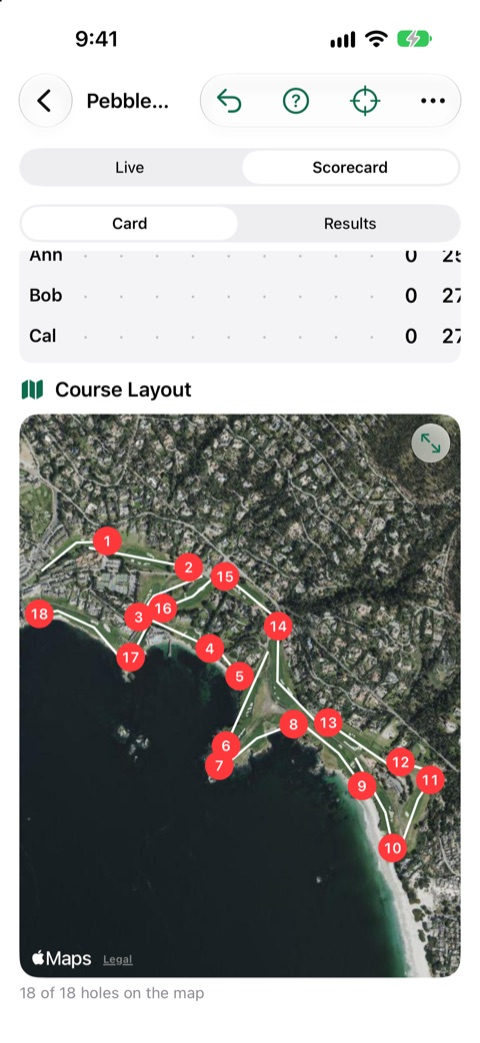
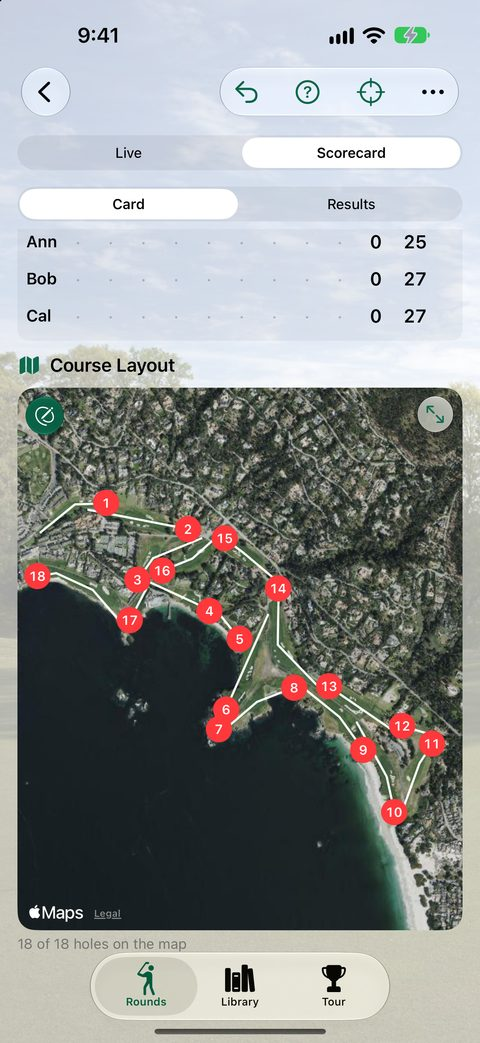
Move TallyUp Golf up beside Game Closet as coming soon, with new screenshots on its backgrounds and its own privacy and support pages

diff --git a/tallyup-golf/index.html b/tallyup-golf/index.html
@@ -12,14 +12,14 @@
 <meta name="viewport" content="width=device-width, initial-scale=1">
 <meta name="color-scheme" content="light dark">
 <title>TallyUp Golf: Score the Round and the Side Games</title>
-<meta name="description" content="A golf scorecard app in the works for iPhone, iPhone Duo and iPad: GPS yards to the green, every hole on the map, in 3D, drawn or from the side, scores for up to four players, side games like skins, Nassau and wolf, and who owes whom at the end.">
+<meta name="description" content="A golf scorecard app for iPhone, iPhone Duo and iPad, coming to the App Store: GPS yards to the green, every hole on the map, in 3D, drawn or from the side, scores for up to four players, side games like skins, Nassau and wolf, and who owes whom at the end.">
 <link rel="icon" href="../assets/favicon.png">
 <link rel="stylesheet" href="../assets/site.css">
 </head>
 <body>
 <header class="bar"><div class="wrap">
   <a class="brand" href="../index.html"><img src="../assets/logo.jpg" alt="" width="314" height="320">DeeDogDevelopment</a>
-  <nav aria-label="Pages"><ul><li><a href="../game-closet/index.html">Game Closet</a></li><li><a href="../game-closet/support.html">Support</a></li><li><a href="../game-closet/privacy.html">Privacy</a></li></ul></nav>
+  <nav aria-label="Pages"><ul><li><a href="../tallyup-golf/index.html" aria-current="page">TallyUp Golf</a></li><li><a href="../tallyup-golf/support.html">Support</a></li><li><a href="../tallyup-golf/privacy.html">Privacy</a></li></ul></nav>
 </div></header>
 <main id="content"><div class="wrap">
   <div class="app-head">
@@ -27,7 +27,7 @@
     <div class="text">
       <h1>TallyUp Golf</h1>
       <p class="lede">Score the round, settle the side games.</p>
-      <span class="soon">Coming soon, maybe</span>
+      <span class="soon">Coming to the App Store</span>
     </div>
   </div>
   <p>See the hole you're on, with the yards to the front, middle and back of the green from where you stand. Keep score hole by hole for up to four players, with strokes given for handicaps. Add skins, a Nassau or wolf, and at the end TallyUp Golf works out who owes whom in the fewest payments.</p>
@@ -35,17 +35,20 @@
     <li><img src="../assets/tallyup-golf/iphone-map.jpg" alt="Pebble Beach's 7th hole on the satellite map from its tee, with 119 yards to the back of the green, 108 to the middle and 96 to the front, above score buttons for four players" width="480" height="1043" loading="lazy"></li>
     <li><img src="../assets/tallyup-golf/iphone-3d.jpg" alt="The same hole in 3D, looking from the tee across the cliffs to the green on the point with the ocean behind it" width="480" height="1043" loading="lazy"></li>
     <li><img src="../assets/tallyup-golf/iphone-drawing.jpg" alt="The same hole drawn like a yardage book: the tee, the line to the green, and the bunkers around it" width="480" height="1043" loading="lazy"></li>
-    <li><img src="../assets/tallyup-golf/iphone-side.jpg" alt="The same hole from the side: the ground falling 29 feet from the tee to the green, so it plays like 84 yards" width="480" height="1043" loading="lazy"></li>
-    <li><img src="../assets/tallyup-golf/iphone-scorecard.jpg" alt="The scorecard for four players through six holes at Pebble Beach, with birdies circled and bogeys boxed" width="480" height="1043" loading="lazy"></li>
+    <li><img src="../assets/tallyup-golf/iphone-side.jpg" alt="The same hole from the side: the ground falling 29 feet from the tee to the green, so with a light tailwind it plays like 82 yards" width="480" height="1043" loading="lazy"></li>
+    <li><img src="../assets/tallyup-golf/iphone-scorecard.jpg" alt="The scorecard for four players through six holes at Pebble Beach, with birdies circled and bogeys boxed, over a photo of a flag on a green" width="480" height="1043" loading="lazy"></li>
     <li><img src="../assets/tallyup-golf/iphone-course.jpg" alt="Under the scorecard, all 18 holes of Pebble Beach on the satellite map, each numbered at its green" width="480" height="1043" loading="lazy"></li>
-    <li><img src="../assets/tallyup-golf/iphone-results.jpg" alt="Side game results: skins won by each player, the Nassau bets and presses, and three payments to settle up" width="480" height="1043" loading="lazy"></li>
+    <li><img src="../assets/tallyup-golf/iphone-results.jpg" alt="Side game results: skins won, the Nassau bets and a press, and three payments to settle up" width="480" height="1043" loading="lazy"></li>
+    <li><img src="../assets/tallyup-golf/iphone-rounds.jpg" alt="The Rounds list over a photo of a bunker in front of tall pines" width="480" height="1043" loading="lazy"></li>
   </ul>
 
   <h2>Open it up</h2>
-  <p>On iPhone Duo, open the phone and the round spreads across both halves: the scorecard and the whole course on one, the hole and the score buttons on the other.</p>
-  <ul class="shots mixed" tabindex="0" aria-label="Screenshots on iPhone Duo, open">
+  <p>On iPhone Duo, open the phone and the round spreads across both halves: the scorecard and the whole course on one, the hole and the score buttons on the other. Closed, it's all there on the cover display.</p>
+  <ul class="shots mixed" tabindex="0" aria-label="Screenshots on iPhone Duo">
     <li><img src="../assets/tallyup-golf/duo-open.jpg" alt="iPhone Duo open: the Pebble Beach scorecard on one half, and the 7th hole in 3D with the yards to the green and score buttons for four players on the other" width="1000" height="703" loading="lazy"></li>
-    <li><img src="../assets/tallyup-golf/duo-course.jpg" alt="iPhone Duo open: all 18 holes of Pebble Beach on the map on one half, and the 7th hole in 3D on the other" width="1000" height="703" loading="lazy"></li>
+    <li><img src="../assets/tallyup-golf/duo-side.jpg" alt="iPhone Duo open: the scorecard on one half, and the 7th hole from the side, falling 29 feet to the green, on the other" width="1000" height="703" loading="lazy"></li>
+    <li><img src="../assets/tallyup-golf/duo-course.jpg" alt="iPhone Duo open: all 18 holes of Pebble Beach on the map on one half, and the 7th hole on the satellite map on the other" width="1000" height="703" loading="lazy"></li>
+    <li><img src="../assets/tallyup-golf/duo-cover.jpg" alt="iPhone Duo closed: the 7th hole on the satellite map with the yards to the green, and score buttons for four players, on the cover display" width="480" height="698" loading="lazy"></li>
   </ul>
 
   <h2>What it does</h2>
@@ -57,10 +60,10 @@
     <div><h3>Settle up</h3><p>Every side game adds up to the fewest payments between players, in points. It keeps the tally; it doesn't move money.</p></div>
     <div><h3>Find the course</h3><p>Search an open course directory for pars, stroke index, yardage and tees, or type the card in. Courses you've played work with no signal.</p></div>
   </div>
-  <p style="margin-top:2rem">TallyUp Golf isn't out yet, and plans can change. Back to <a href="../index.html">DeeDogDevelopment</a>.</p>
+  <p style="margin-top:2rem">Questions? See <a href="support.html">TallyUp Golf Support</a> and the <a href="privacy.html">privacy policy</a>. Back to <a href="../index.html">DeeDogDevelopment</a>.</p>
 </div></main>
 <footer><div class="wrap">
-  <ul><li><a href="../game-closet/index.html">Game Closet</a></li><li><a href="../game-closet/support.html">Support</a></li><li><a href="../game-closet/privacy.html">Privacy Policy</a></li><li><a href="mailto:natured-lobular8t@icloud.com">Contact</a></li></ul>
+  <ul><li><a href="../tallyup-golf/index.html">TallyUp Golf</a></li><li><a href="../tallyup-golf/support.html">Support</a></li><li><a href="../tallyup-golf/privacy.html">Privacy Policy</a></li><li><a href="mailto:natured-lobular8t@icloud.com">Contact</a></li></ul>
   <p>© 2026 Jim Murff, DeeDogDevelopment.</p>
 </div></footer>
 </body>

diff --git a/tallyup-golf/privacy.html b/tallyup-golf/privacy.html
@@ -1,0 +1,91 @@
+<!doctype html>
+<!--
+  privacy.html
+  Docs, TallyUpGolf
+
+  Created by Jim Murff on 11/04/26.
+  Copyright © 2026 Jim Murff, DeeDogDevelopment. All rights reserved.
+-->
+<html lang="en">
+<head>
+<meta charset="utf-8">
+<meta name="viewport" content="width=device-width, initial-scale=1">
+<meta name="color-scheme" content="light dark">
+<title>TallyUp Golf Privacy Policy</title>
+<meta name="description" content="What TallyUp Golf keeps on your device, what it asks outside services for, and what it never collects.">
+<link rel="icon" href="../assets/favicon.png">
+<link rel="stylesheet" href="../assets/site.css">
+</head>
+<body>
+<header class="bar"><div class="wrap">
+  <a class="brand" href="../index.html"><img src="../assets/logo.jpg" alt="" width="314" height="320">DeeDogDevelopment</a>
+  <nav aria-label="Pages"><ul><li><a href="../tallyup-golf/index.html">TallyUp Golf</a></li><li><a href="../tallyup-golf/support.html">Support</a></li><li><a href="../tallyup-golf/privacy.html" aria-current="page">Privacy</a></li></ul></nav>
+</div></header>
+<main id="content" class="prose">
+  <h1>TallyUp Golf Privacy Policy</h1>
+  <p class="meta">Effective November 4, 2026</p>
+
+  <div class="card">
+    <p><strong>In short:</strong> TallyUp Golf does not collect your data. There is no account, no advertising, no analytics and no tracking, and the app talks to no server run by its developer. Your rounds are kept on your device and, if you leave sync on, in your own iCloud. Your location stays on your device. To draw a course, the app asks public map, elevation and weather services about that course, never about you.</p>
+  </div>
+
+  <h2>Who this covers</h2>
+  <p>This policy covers the TallyUp Golf app for iPhone and iPad. It is published by Jim Murff, who also trades informally as DeeDogDevelopment ("we" in this policy). Contact details are at the end.</p>
+
+  <h2>What we collect</h2>
+  <p>Nothing. We run no servers for the app and receive no personal information from it. The app has no sign-up and no login, shows no ads, and contains no analytics or advertising code and no tracking.</p>
+
+  <h2>What stays on your device</h2>
+  <p>The app saves the following on your device, so your rounds and courses are there next time:</p>
+  <ul>
+    <li>Your rounds: the course, the players' names and handicap strokes, every score, and the side games and their results.</li>
+    <li>The courses in your Library, with their maps, locations and elevation, so they work with no signal.</li>
+    <li>Your settings, such as distances in yards or meters, the theme, the background photo and how holes open.</li>
+  </ul>
+  <p>Deleting the app removes all of this from the device. Settings can delete downloaded maps, and a round can be deleted from the Rounds list.</p>
+
+  <h2>Your location</h2>
+  <p>If you allow it, the app uses your location while it's open to show where you are on the hole, measure the yards to the green or to where you aim, and find courses near you. Your location is used on the device and is never sent to us or to any other service. The app works without it: yards are then measured from the tee, and course search shows courses anywhere. You can change this at any time in your device's Settings, under Privacy &amp; Security, Location Services.</p>
+
+  <h2>iCloud sync and backups (optional, Apple)</h2>
+  <p>With "Sync Rounds With iCloud" on, the app keeps your rounds in your private iCloud database, so they follow you to your other devices signed in to the same Apple Account. This is on by default and only works if you are signed in to iCloud. Back Up Now saves your rounds as a file in your iCloud Drive, or on the device when iCloud Drive is off. Apple stores and protects this data under your Apple Account and <a href="https://www.apple.com/legal/privacy/">Apple's privacy policy</a>. We cannot see it.</p>
+  <ul>
+    <li>To stop syncing, open Settings in the app and switch off "Sync Rounds With iCloud". Rounds already in iCloud stay there until you remove them in your device's iCloud storage settings.</li>
+    <li>A round you send to someone else from its menu is a file you share yourself, through the share sheet you pick.</li>
+  </ul>
+
+  <h2>Outside services the app asks</h2>
+  <p>To find and draw courses, the app sends requests to these services. Each request is about a course or a place on a course: a course name you search for, or a course's coordinates. None of them includes your location, your name, your scores or anything that identifies you, and none of them is run by us.</p>
+  <ul>
+    <li><strong>OpenGolfAPI</strong>, an open course directory: the course name you search for, to get pars, stroke index, yardage and tees.</li>
+    <li><strong>OpenStreetMap</strong> (through the Overpass API): a course's coordinates, to get the shapes of its holes, greens and bunkers.</li>
+    <li><strong>The US Geological Survey</strong> elevation service: points along a hole, to get the ground's height for the side view.</li>
+    <li><strong>Apple Weather</strong> (WeatherKit) and <strong>Apple Maps</strong>: a course's location, for the wind and temperature in the plays-like yardage, and to find a course the directory doesn't list. Apple handles these under <a href="https://www.apple.com/legal/privacy/">Apple's privacy policy</a>.</li>
+    <li><strong>ESPN</strong> and <strong>TheSportsDB</strong>: the Tour tab asks for tournament schedules and leaderboards. It sends nothing about you.</li>
+  </ul>
+  <p>Like any website, these services see the network address your request comes from. Their own privacy policies apply to what they do with it.</p>
+
+  <h2>Money</h2>
+  <p>TallyUp Golf keeps a tally of side games in points. It does not move money, and it has no in-app purchases.</p>
+
+  <h2>Diagnostics from Apple</h2>
+  <p>If you have chosen to share analytics with app developers in your device's privacy settings, Apple may pass us crash reports and usage statistics about TallyUp Golf. They come from Apple, are not part of the app, and are not linked to your identity by us.</p>
+
+  <h2>Children</h2>
+  <p>TallyUp Golf does not collect personal information from anyone, including children. It has no ads and no chat or other way to contact other people.</p>
+
+  <h2>Sharing your information</h2>
+  <p>We do not sell, rent or share personal information, because we do not have any.</p>
+
+  <h2>Changes to this policy</h2>
+  <p>If the app changes in a way that affects your privacy, we will update this page and the effective date at the top, and the App Store listing will show a matching privacy label.</p>
+
+  <h2>Contact</h2>
+  <p>Questions about privacy: <a href="mailto:natured-lobular8t@icloud.com">natured-lobular8t@icloud.com</a>.</p>
+</main>
+<footer><div class="wrap">
+  <ul><li><a href="../tallyup-golf/index.html">TallyUp Golf</a></li><li><a href="../tallyup-golf/support.html">Support</a></li><li><a href="../tallyup-golf/privacy.html">Privacy Policy</a></li><li><a href="mailto:natured-lobular8t@icloud.com">Contact</a></li></ul>
+  <p>© 2026 Jim Murff, DeeDogDevelopment.</p>
+</div></footer>
+</body>
+</html>

diff --git a/tallyup-golf/support.html b/tallyup-golf/support.html
@@ -1,0 +1,72 @@
+<!doctype html>
+<!--
+  support.html
+  Docs, TallyUpGolf
+
+  Created by Jim Murff on 11/04/26.
+  Copyright © 2026 Jim Murff, DeeDogDevelopment. All rights reserved.
+-->
+<html lang="en">
+<head>
+<meta charset="utf-8">
+<meta name="viewport" content="width=device-width, initial-scale=1">
+<meta name="color-scheme" content="light dark">
+<title>TallyUp Golf Support</title>
+<meta name="description" content="Help with TallyUp Golf: finding courses, yards to the green, side games, iCloud sync, backups and iPhone Duo.">
+<link rel="icon" href="../assets/favicon.png">
+<link rel="stylesheet" href="../assets/site.css">
+</head>
+<body>
+<header class="bar"><div class="wrap">
+  <a class="brand" href="../index.html"><img src="../assets/logo.jpg" alt="" width="314" height="320">DeeDogDevelopment</a>
+  <nav aria-label="Pages"><ul><li><a href="../tallyup-golf/index.html">TallyUp Golf</a></li><li><a href="../tallyup-golf/support.html" aria-current="page">Support</a></li><li><a href="../tallyup-golf/privacy.html">Privacy</a></li></ul></nav>
+</div></header>
+<main id="content" class="prose">
+  <h1>TallyUp Golf Support</h1>
+  <p>Most answers are also in the app: tap the question mark on the Rounds screen or during a round. If something here doesn't help, write to <a href="mailto:natured-lobular8t@icloud.com">natured-lobular8t@icloud.com</a> with your device, its iOS version and what happened.</p>
+
+  <h2>Start a round</h2>
+  <ol>
+    <li>On Rounds, tap the plus button.</li>
+    <li>Search for the course by name, or type the card in yourself. Courses you've played are in the Library and work with no signal.</li>
+    <li>Add up to four players, with the strokes each one gets.</li>
+    <li>Pick any side games. The help button beside them explains each one.</li>
+  </ol>
+  <p>A blank score starts at par, so most holes take one tap per player. Plus and minus cover the rest, and Undo takes back the last change.</p>
+
+  <h2>Yards to the green</h2>
+  <p>With location allowed, the yards to the back, middle and front of the green are measured from where you stand once you're near the hole. Without location, or away from the course, they're measured from the tee. Tap the map to aim at a spot and see the yards to it and on to the pin.</p>
+  <p>If yards look wrong, check that Location Services is on for TallyUp Golf in your device's Settings, under Privacy &amp; Security. Settings in the app shows whether the app can use your location and has a button to open the right page.</p>
+
+  <h2>A course has no map, or the map is wrong</h2>
+  <p>Hole shapes come from OpenStreetMap, which volunteers draw. Some courses aren't drawn yet, or are drawn only in part. Those holes show a sketch from the par and yardage instead, and scoring works the same. Tap Mark This Hole on the sketch to mark its tee and green yourself. In the Library, the refresh button fetches a course's map again, which picks up changes made on OpenStreetMap.</p>
+
+  <h2>The side view</h2>
+  <p>The side view shows how much a hole climbs or drops, from US Geological Survey heights, and what that, the wind, the temperature and the altitude do to the yardage. It covers courses in the United States. Elsewhere it says there's no elevation data and the other views still work.</p>
+
+  <h2>Side games and settling up</h2>
+  <p>TallyUp Golf plays stroke play, Stableford, match play, skins, Nassau with presses, and wolf, gross or net. Which games show depends on how many players and holes there are. Results shows each game's standing and the fewest payments that settle everything, in points. The app keeps the tally; it doesn't move money.</p>
+
+  <h2>iCloud sync</h2>
+  <p>With "Sync Rounds With iCloud" on in Settings, your rounds follow you to your other devices signed in to the same Apple Account. If a round doesn't show on another device:</p>
+  <ol>
+    <li>Check that both devices are signed in to iCloud with the same Apple Account, and that iCloud Drive is on.</li>
+    <li>Open TallyUp Golf on both. Settings shows when rounds last synced.</li>
+    <li>Switch "Sync Rounds With iCloud" off and on again, which sends every round again.</li>
+  </ol>
+
+  <h2>Backups</h2>
+  <p>Settings, Back Up Now saves every round to one file in iCloud Drive's TallyUp Golf folder, or on the device when iCloud Drive is off. Restore From a Backup lists those files. A single round can also be sent from its menu as a file, which TallyUp Golf opens on another device.</p>
+
+  <h2>iPhone Duo</h2>
+  <p>Closed, TallyUp Golf works like it does on any iPhone. Open the phone and the round spreads across both halves: the scorecard and the whole course on one, the hole and the score buttons on the other. Fold or open it at any time; the round stays where it was.</p>
+
+  <h2>Privacy</h2>
+  <p>TallyUp Golf collects nothing. See the <a href="privacy.html">privacy policy</a>.</p>
+</main>
+<footer><div class="wrap">
+  <ul><li><a href="../tallyup-golf/index.html">TallyUp Golf</a></li><li><a href="../tallyup-golf/support.html">Support</a></li><li><a href="../tallyup-golf/privacy.html">Privacy Policy</a></li><li><a href="mailto:natured-lobular8t@icloud.com">Contact</a></li></ul>
+  <p>© 2026 Jim Murff, DeeDogDevelopment.</p>
+</div></footer>
+</body>
+</html>

diff --git a/index.html b/index.html
@@ -12,7 +12,7 @@
 <meta name="viewport" content="width=device-width, initial-scale=1">
 <meta name="color-scheme" content="light dark">
 <title>DeeDogDevelopment</title>
-<meta name="description" content="Apps by DeeDogDevelopment, including Game Closet, a collection of classic board, dice and card games.">
+<meta name="description" content="Apps by DeeDogDevelopment, including Game Closet, a collection of classic board, dice and card games, and TallyUp Golf, a golf scorecard with side games.">
 <link rel="icon" href="assets/favicon.png">
 <link rel="stylesheet" href="assets/site.css">
 </head>
@@ -32,6 +32,11 @@
     <div class="text"><h2>Game Closet</h2><p>Twenty-six board, dice and card classics for iPhone, iPad and Mac.</p><span class="soon">Coming soon</span></div>
     <svg class="chev" aria-hidden="true" viewBox="0 0 24 24" width="24" height="24"><path d="M9 5l7 7-7 7"/></svg>
   </a>
+  <a class="app-card" href="tallyup-golf/index.html">
+    <img src="assets/tallyup-golf/icon.jpg" alt="" width="256" height="256">
+    <div class="text"><h2>TallyUp Golf</h2><p>A golf scorecard with yards to the green, every hole on the map, and skins, Nassau and wolf settled at the end. For iPhone, iPhone Duo and iPad.</p><span class="soon">Coming soon</span></div>
+    <svg class="chev" aria-hidden="true" viewBox="0 0 24 24" width="24" height="24"><path d="M9 5l7 7-7 7"/></svg>
+  </a>
 
   <section aria-labelledby="coming-soon">
     <h2 id="coming-soon">Coming soon, maybe?</h2>
@@ -44,14 +49,6 @@
           <svg class="chev" aria-hidden="true" viewBox="0 0 24 24" width="24" height="24"><path d="M9 5l7 7-7 7"/></svg>
         </div>
         <p>Keep score of baseball, cricket, basketball, football, soccer and hockey, play by play, or follow a live MLB game as its scorecard fills itself in. Made for iPhone Duo, iPhone, iPad and Mac.</p>
-      </li>
-      <li class="soon-card">
-        <div class="soon-head">
-          <img src="assets/tallyup-golf/icon.jpg" alt="The TallyUp Golf app icon, a red flag on a green with a golf ball" width="256" height="256" loading="lazy">
-          <div><h3><a href="tallyup-golf/index.html">TallyUp Golf</a></h3><span class="maybe">Maybe</span></div>
-          <svg class="chev" aria-hidden="true" viewBox="0 0 24 24" width="24" height="24"><path d="M9 5l7 7-7 7"/></svg>
-        </div>
-        <p>A golf scorecard for up to four players, with skins, Nassau, wolf and other side games, and who owes whom at the end. For iPhone and iPad.</p>
       </li>
       <li class="soon-card">
         <div class="soon-head">

diff --git a/README.md b/README.md
@@ -7,6 +7,7 @@ The public site at https://jmurff.github.io/, served by GitHub Pages from this r
 | `index.html` | The DeeDogDevelopment home page, listing every app. |
 | `<app>/index.html` | Each app's page: `game-closet`, `scorekeeper`, `tallyup-golf`, `rivalry`, `oven-time`, `yesterday`, `forks`. |
 | `game-closet/privacy.html`, `game-closet/support.html` | The privacy policy and support pages App Store Connect links to. Keep these URLs. |
+| `tallyup-golf/privacy.html`, `tallyup-golf/support.html` | TallyUp Golf's privacy policy and support pages, linked from App Store Connect and the app's Settings. Keep these URLs. |
 | `assets/` | The stylesheet, logo, favicon, and each app's icon and screenshots in `assets/<app>/`. |
 
 The site used to live in the Game Closet repository under `docs/appstore/site` and was copied here by a publish script; its earlier history is there.
